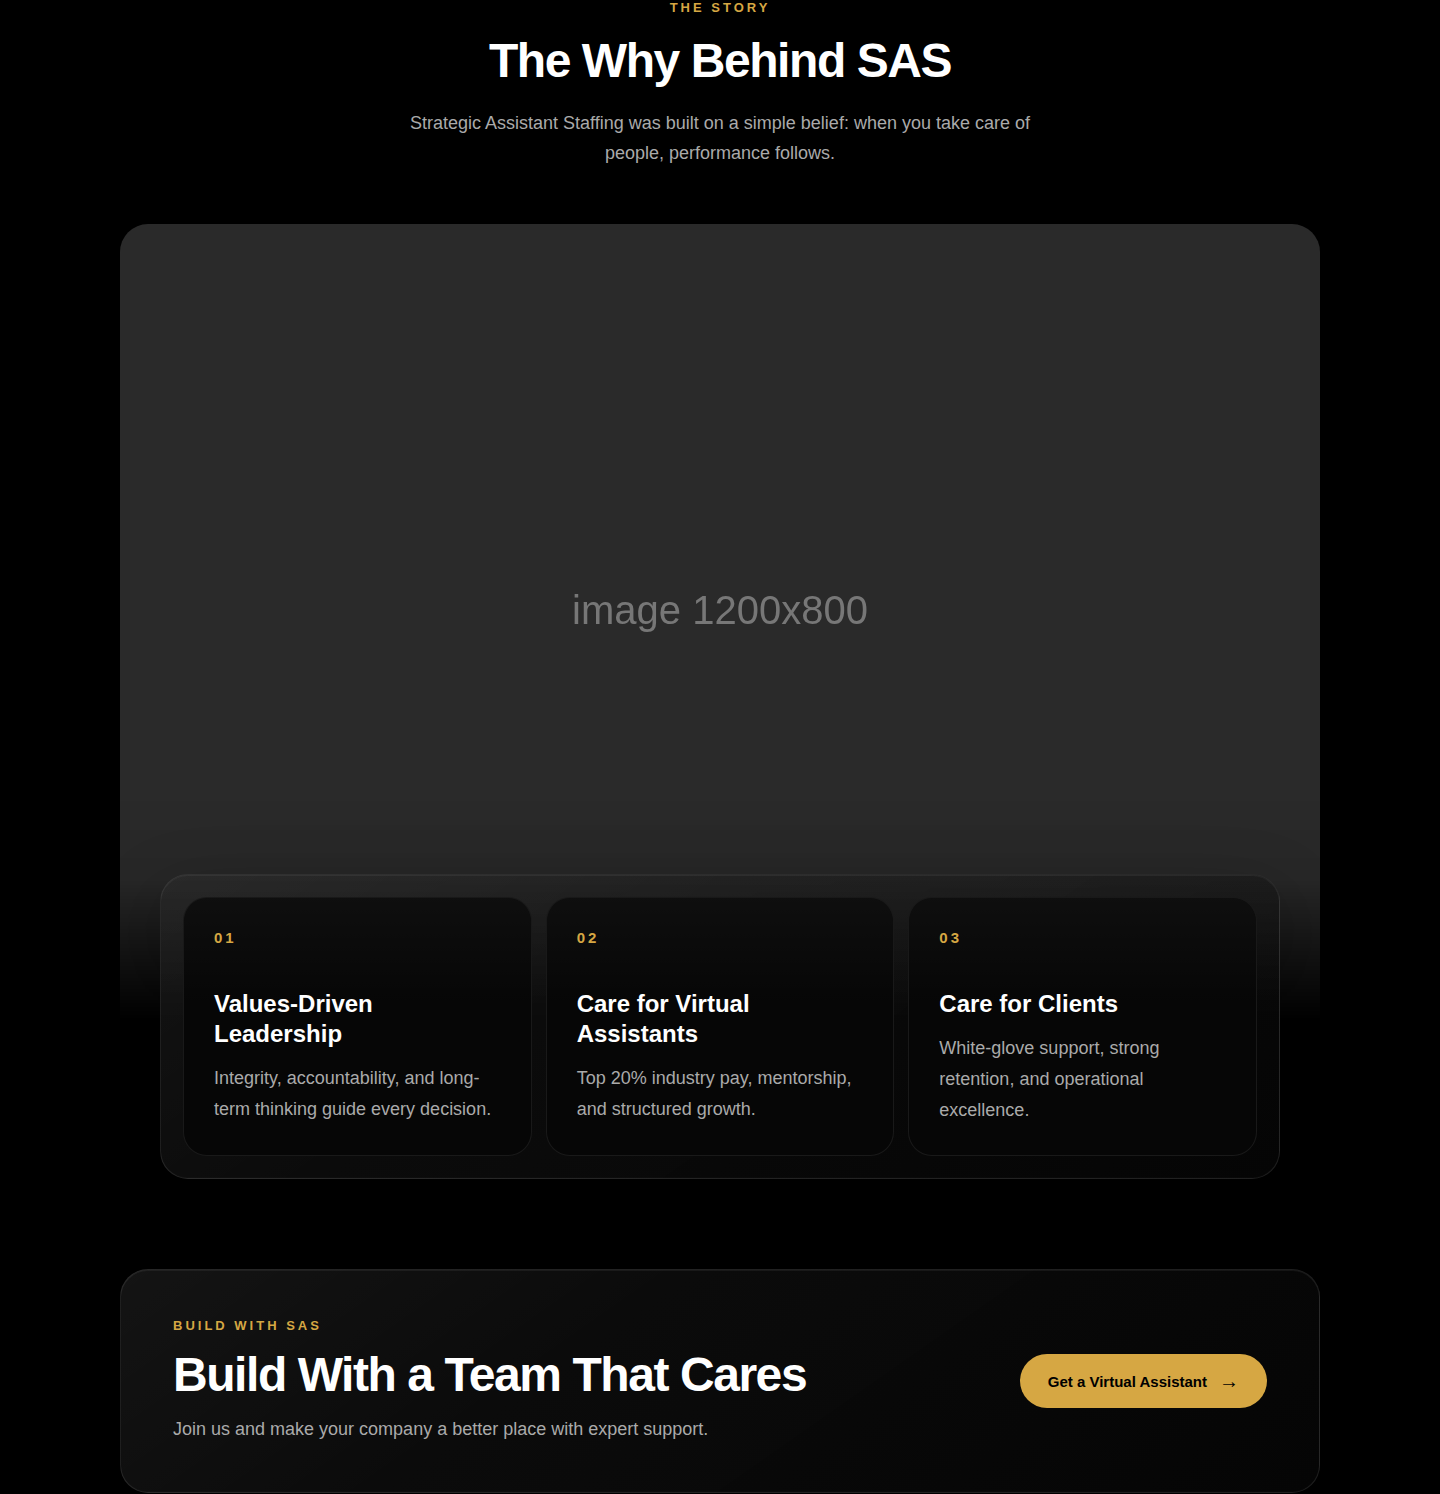
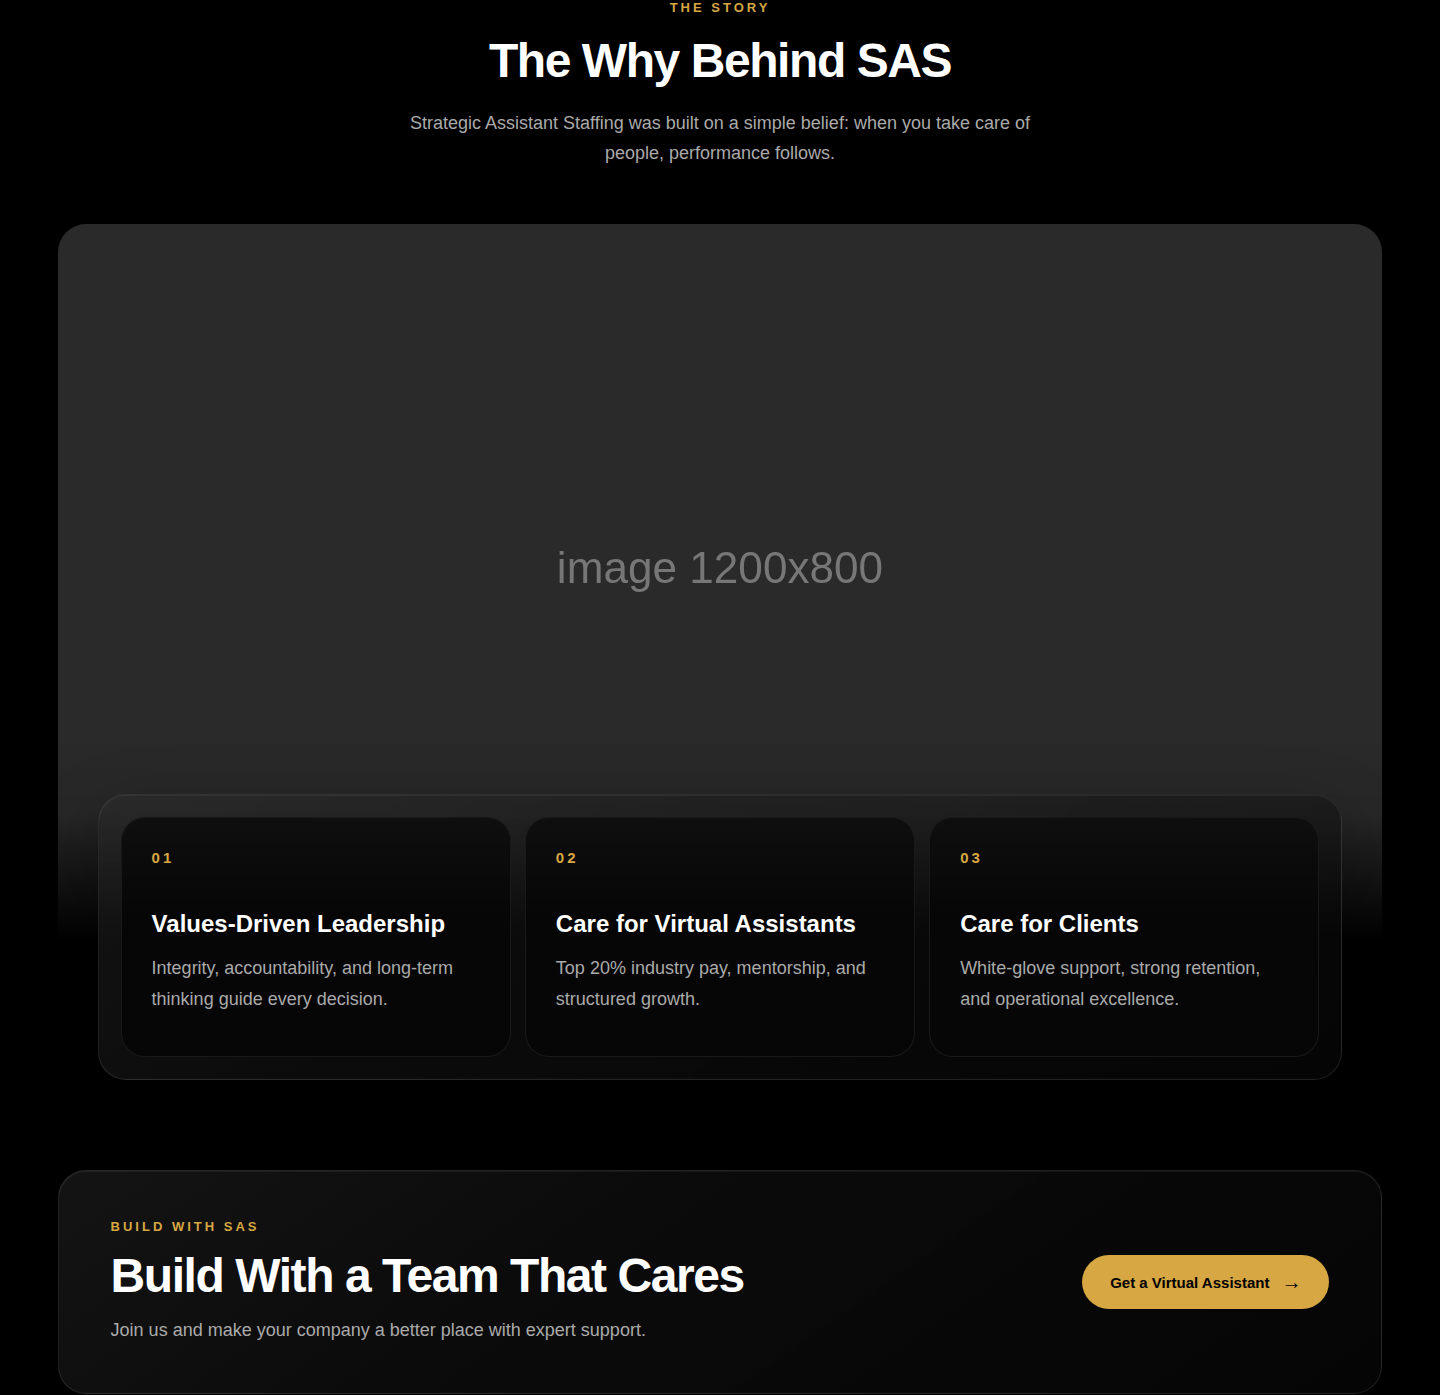
Why section: full 1440px content width like Our Story; add width rule to guide
Claude-Session: https://claude.ai/code/session_01EBtb9GCsShS6bxd8Mop7wv

diff --git a/output/sas-why.html b/output/sas-why.html
@@ -255,8 +255,7 @@
 
 #sas-why .sas-why-visual {
     position: relative;
-    width: 100%;
-    max-width: 1200px;
+    width: 100%;             /* full content width (up to 1440px), same as Our Story */
     margin: 0 auto;
 }
 
@@ -272,6 +271,7 @@
     width: 100%;
     height: auto;
     min-height: 460px;
+    max-height: 720px;       /* wider photo, but never taller than a laptop screen */
 
     object-fit: cover;
     object-position: center;
@@ -437,8 +437,7 @@
     justify-content: space-between;
     gap: 40px;
 
-    width: 100%;
-    max-width: 1200px;
+    width: 100%;             /* full content width (up to 1440px), same as Our Story */
     margin: 90px auto 0;
     padding: 48px 52px;
 

diff --git a/SAS-DESIGN-GUIDE.md b/SAS-DESIGN-GUIDE.md
@@ -115,6 +115,12 @@ Mobile overrides are done by changing the token, not the property:
 
 Grids use `repeat(N, minmax(0, 1fr))` and every grid/flex child gets `min-width: 0`.
 
+**Content width rule:** cards, photos, stats bars, CTA banners and grids fill the
+FULL container width (up to `--sas-max` 1440px) so every section lines up with the
+header/footer — do NOT cap them at 1200px. Only text is narrower: section headers
+~760–900px centred, paragraphs `max-width: 65ch`. Tall photos get a `max-height`
+(e.g. 720px) with `object-fit: cover` so they never fill more than a laptop screen.
+
 ---
 
 ## 4. Typography
